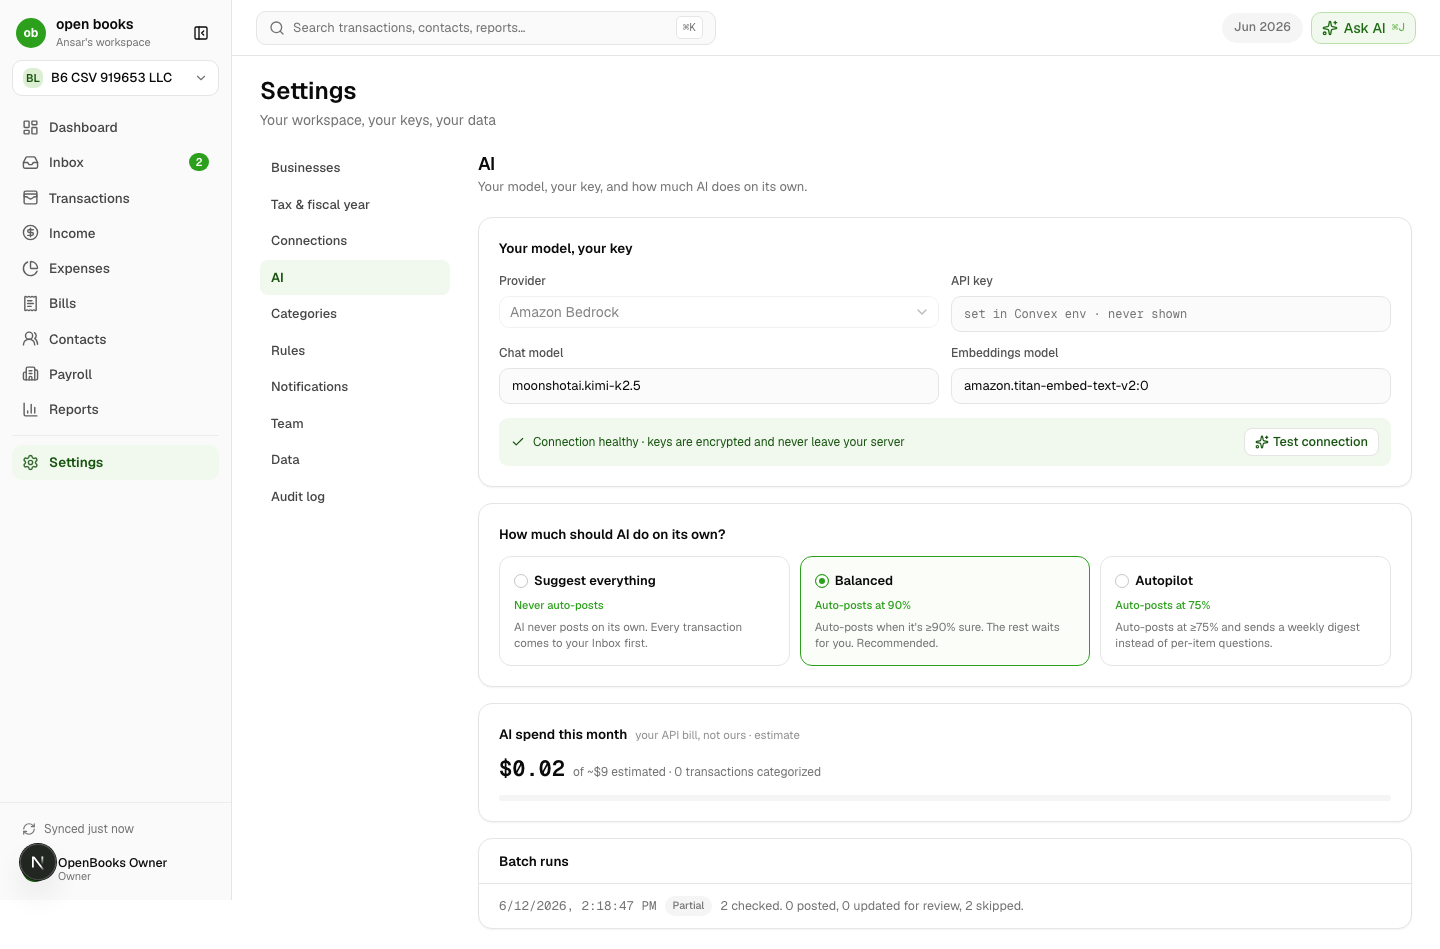
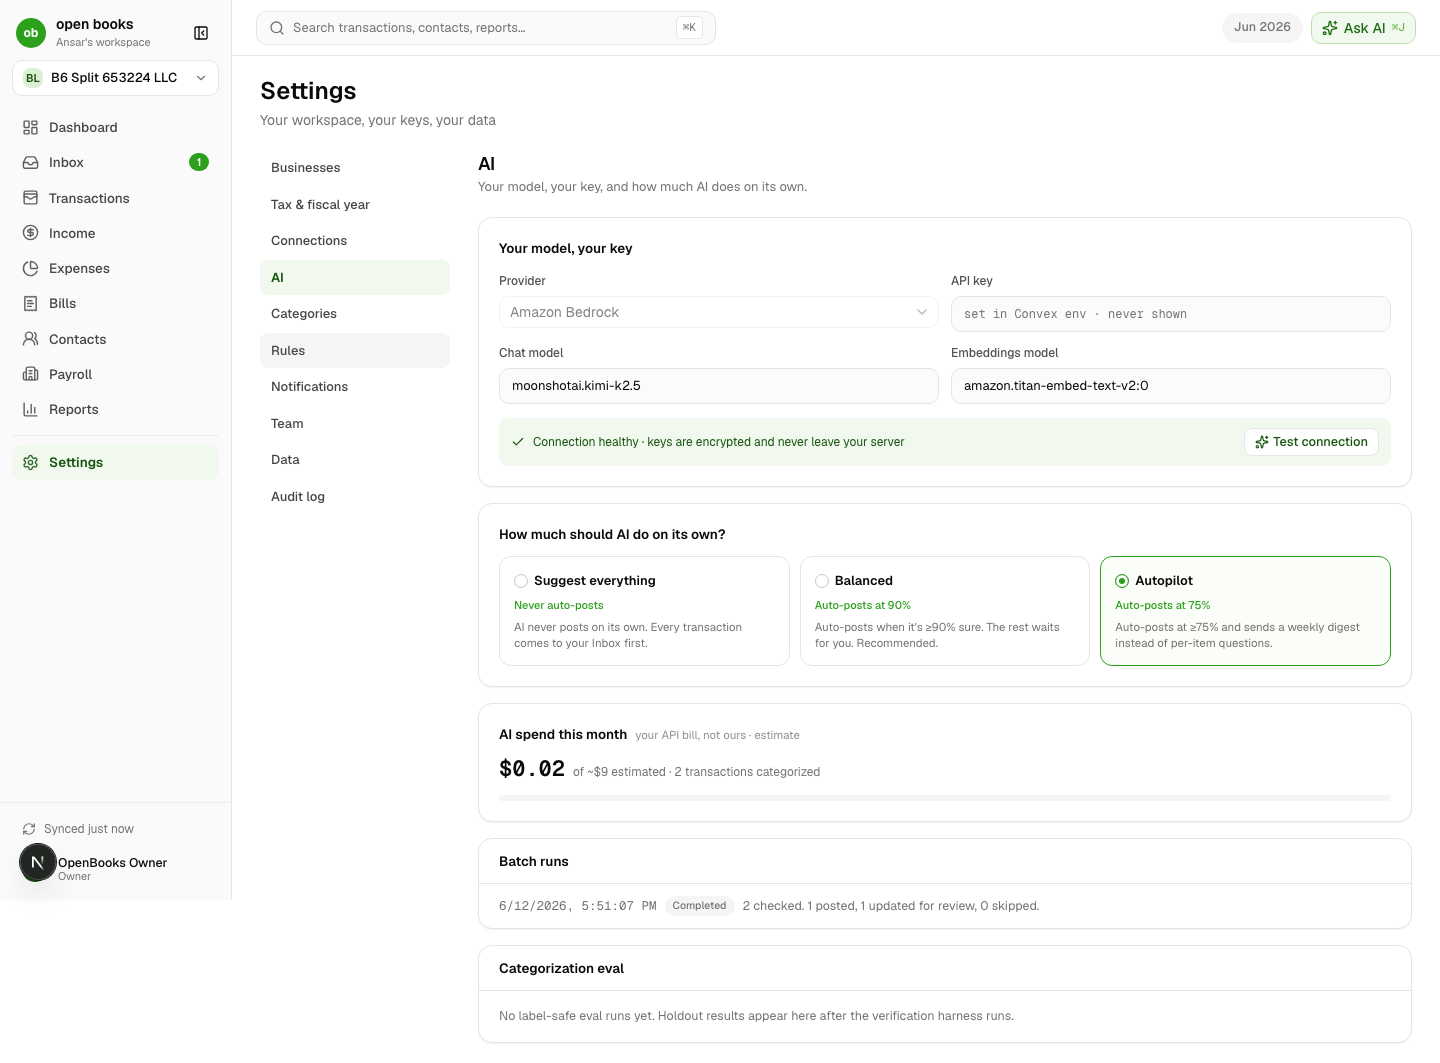
feat(ai): prove import categorization split

diff --git a/tests/e2e/import-ai-b6.spec.ts b/tests/e2e/import-ai-b6.spec.ts
@@ -57,8 +57,20 @@ async function selectEntity(page: Page, name: string) {
   await expect(menu).toBeVisible();
   const option = menu.locator('[role="menuitem"]').filter({ hasText: name }).first();
   await expect(option).toBeVisible({ timeout: 15000 });
+  if ((await option.getAttribute("aria-disabled")) === "true") {
+    await page.keyboard.press("Escape");
+    return;
+  }
   await option.click();
   await expect(switcher).toContainText(name, { timeout: 15000 });
+}
+
+async function setAiAutonomy(page: Page, mode: "balanced" | "autopilot") {
+  await gotoApp(page, "/settings/ai");
+  await expect(visibleByTestId(page, "ai-section")).toBeVisible({ timeout: 30000 });
+  const button = visibleByTestId(page, `ai-autonomy-${mode}`);
+  await button.click();
+  await expect(button).toHaveAttribute("data-active", "true", { timeout: 15000 });
 }
 
 async function archiveBusiness(page: Page, businessName: string) {
@@ -70,36 +82,73 @@ async function archiveBusiness(page: Page, businessName: string) {
   await expect(card).toContainText("Archived", { timeout: 15000 });
 }
 
-test("B6 — CSV import triggers AI batch history without mutating shared demo books", async ({ page }) => {
-  test.setTimeout(240_000);
+test("B6 — CSV import produces live Bedrock high/low split without mutating shared demo books", async ({ page }) => {
+  test.setTimeout(300_000);
   await page.setViewportSize({ width: 1440, height: 900 });
 
   const stamp = Date.now().toString().slice(-6);
-  const businessName = `B6 CSV ${stamp} LLC`;
-  const firstMerchant = `B6 Review Software ${stamp}`;
-  const secondMerchant = `B6 Review Supplies ${stamp}`;
+  const businessName = `B6 Split ${stamp} LLC`;
+  const highMerchant = `B6 Adobe Creative Cloud ${stamp}`;
+  const lowMerchant = `B6 Unknown Ambiguous Adjustment Needs Human ${stamp}`;
+  let touchedAutonomy = false;
 
-  await createBusiness(page, businessName);
-  await gotoApp(page, "/transactions");
-  await selectEntity(page, businessName);
-  await expect(visibleByTestId(page, "transactions-screen")).toBeVisible({ timeout: 30000 });
+  try {
+    await createBusiness(page, businessName);
+    await setAiAutonomy(page, "autopilot");
+    touchedAutonomy = true;
 
-  await visibleByTestId(page, "csv-text").fill(
-    `date,description,amount\n2026-06-30,${firstMerchant},-25.00\n2026-06-30,${secondMerchant},-18.00`,
-  );
-  await visibleByTestId(page, "csv-import").click();
-  await expect(visibleByTestId(page, "transaction-message")).toContainText(/AI batch/i, { timeout: 60000 });
-  await expect(page.getByTestId("transaction-row").filter({ hasText: secondMerchant }).first()).toBeVisible({
-    timeout: 15000,
-  });
+    await gotoApp(page, "/transactions");
+    await selectEntity(page, businessName);
+    await expect(visibleByTestId(page, "transactions-screen")).toBeVisible({ timeout: 30000 });
 
-  await page.getByTestId("app-sidebar").getByRole("link", { name: "Settings", exact: true }).click();
-  await page.getByTestId("settings-nav-ai").click();
-  await expect(visibleByTestId(page, "ai-section")).toBeVisible({ timeout: 30000 });
-  const batchHistory = visibleByTestId(page, "ai-batch-history");
-  await expect(batchHistory).toContainText(/checked/i, { timeout: 30000 });
-  await expect(batchHistory).toContainText(/degraded|completed|partial/i);
-  await page.screenshot({ path: `${EVIDENCE}/2026-06-12-B6-csv-ai-batch-history.png`, fullPage: true });
+    await visibleByTestId(page, "csv-text").fill(
+      [
+        "date,description,amount",
+        `2026-06-30,${highMerchant} monthly software subscription,-82.00`,
+        `2026-06-30,${lowMerchant},-19.37`,
+      ].join("\n"),
+    );
+    await visibleByTestId(page, "csv-import").click();
+    const message = visibleByTestId(page, "transaction-message");
+    await expect(message).toContainText(/AI batch/i, { timeout: 180000 });
+    await expect(message).toContainText(/2 checked, 1 posted, 1 updated for review/i);
 
-  await archiveBusiness(page, businessName);
+    await page.getByPlaceholder("Search merchant or memo").fill(highMerchant);
+    const postedRow = page.getByTestId("transaction-row").filter({ hasText: highMerchant }).first();
+    await expect(postedRow).toBeVisible({ timeout: 30000 });
+    await expect(postedRow).toContainText(/bank - ai/i);
+    await expect(postedRow).toContainText(/auto/i);
+    await expect(postedRow).toContainText(/Software & SaaS/i);
+    await postedRow.locator("td").nth(2).click();
+    const drawer = visibleByTestId(page, "transaction-drawer");
+    await expect(drawer).toContainText("Balanced lines", { timeout: 30000 });
+    await expect(drawer).toContainText("Software & SaaS");
+    await page.screenshot({ path: `${EVIDENCE}/2026-06-12-B6-import-split-posted.png`, fullPage: true });
+
+    await gotoApp(page, "/inbox");
+    await selectEntity(page, businessName);
+    await expect(visibleByTestId(page, "inbox-list")).toBeVisible({ timeout: 30000 });
+    const reviewItem = page.getByTestId("inbox-item").filter({ hasText: lowMerchant }).first();
+    await expect(reviewItem).toBeVisible({ timeout: 30000 });
+    await reviewItem.click();
+    await expect(visibleByTestId(page, "inbox-detail-title")).toHaveText(lowMerchant, { timeout: 15000 });
+    await expect(page.getByText(/Pipeline stage 6 LLM proposal|ambiguous|needs human|missing/i).first()).toBeVisible({
+      timeout: 15000,
+    });
+    await page.screenshot({ path: `${EVIDENCE}/2026-06-12-B6-import-split-inbox.png`, fullPage: true });
+
+    await gotoApp(page, "/settings/ai");
+    await expect(visibleByTestId(page, "ai-section")).toBeVisible({ timeout: 30000 });
+    const batchHistory = visibleByTestId(page, "ai-batch-history");
+    await expect(batchHistory).toContainText(/2 checked. 1 posted, 1 updated for review, 0 skipped/i, {
+      timeout: 30000,
+    });
+    await expect(batchHistory).toContainText(/completed/i);
+    await page.screenshot({ path: `${EVIDENCE}/2026-06-12-B6-csv-ai-batch-history.png`, fullPage: true });
+  } finally {
+    if (touchedAutonomy) {
+      await setAiAutonomy(page, "balanced").catch(() => undefined);
+    }
+    await archiveBusiness(page, businessName).catch(() => undefined);
+  }
 });

diff --git a/convex/bedrockCategorizer.ts b/convex/bedrockCategorizer.ts
@@ -461,6 +461,9 @@ export function buildCategorizationPrompt(args: {
   return [
     "You are the categorization stage for OpenBooks, a double-entry bookkeeping app.",
     "Choose exactly one category from the candidate account list. Do not invent categories.",
+    "Use needsHuman=false only when the merchant and raw description clearly point to one category.",
+    "If the merchant or raw description is generic, ambiguous, an adjustment, or says unknown/review/needs human, set needsHuman=true, use confidence <=0.65, and explain what is missing.",
+    "For clear recurring software, cloud, rent, utilities, payroll, meals, travel, bank fee, tax, or professional-service vendors, set needsHuman=false and use confidence that reflects the evidence.",
     "Return only JSON. No markdown. No explanation outside JSON.",
     "",
     `Entity: ${args.entityName}`,

diff --git a/convex/ai.test.ts b/convex/ai.test.ts
@@ -450,6 +450,8 @@ describe("M10 AI backend", () => {
 
     expect(prompt).toContain("Figma monthly subscription");
     expect(prompt).toContain("5200 | Software & SaaS | expense/software");
+    expect(prompt).toContain("generic, ambiguous, an adjustment");
+    expect(prompt).toContain("needsHuman=true");
     expect(prompt).toContain("Return only JSON");
     expect(prompt).not.toContain("AWS_SECRET_ACCESS_KEY");
   });

diff --git a/docs/finishing/completion-report.md b/docs/finishing/completion-report.md
@@ -62,10 +62,10 @@ Updated as evidence lands. Starts as inherited reality from the audit.
 | 2 | Shell: collapsible sidebar, footer profile/settings/logout, ⌘K, entity switcher, Ask AI ⌘J | WORKING | `tests/e2e/app-shell.spec.ts` 9/9 + 8 screenshots; B5 dock verified in `tests/e2e/ai-chat.spec.ts`; F2 profile verified in `tests/e2e/profile-team.spec.ts` + screenshot; G5 entity switching verified in `tests/e2e/entity-scope-g5.spec.ts` + screenshots | Sidebar 232⇄56 rail, footer menu (logout→sign-in), Income/Expenses nav, ⌘K, ⌘J, switcher all real-click verified. Profile page now updates sidebar identity live. Entity switching now drives dashboard/register/reports/module reads for Live Sandbox and fresh businesses. Remaining follow-up: global ⌘K server search index. AI panel is docked on desktop and a bottom sheet on mobile. |
 | 3 | Plaid sandbox real Link → sync → pipeline → ledger/inbox | PARTIAL | `convex/plaid.test.ts` 15/15 + `convex/plaidWebhook.test.ts` 2/2 + `tests/e2e/plaid-link.spec.ts` 3/3 + 3 screenshots | G1 mounts the Plaid Link client and persists exchanged access tokens server-side without leaking them. G2 adds item-level cursor state, `system:sync`, 4h cron, verified Plaid webhook signature handling, real `/transactions/sync`, server-side removal reversal, and a Settings `Sync now` control. Still not WORKING: no completed hosted Plaid Link session + real Plaid sandbox item sync has been proven end-to-end in the browser. |
 | 4 | Stripe test mode event-driven sync + payout reconcile | PARTIAL | `convex/stripe.test.ts` 6/6 + `convex/stripeWebhook.test.ts` 3/3 + `tests/e2e/stripe-g3.spec.ts` 1/1 + screenshot | G3 code is implemented: Stripe test-mode webhooks dedupe, trigger targeted invoice/charge/payout sync, post through `system:sync`, and persist `stripePayoutLines`; UI reads persisted child rows. Still not WORKING until a real Stripe CLI/Dashboard test webhook is delivered to `/stripe/webhook` on the cloud site and proves invoice/payout update end-to-end. |
-| 5 | Inbox: confirm / correct / rule / batch / keyboard | WORKING | `tests/e2e/inbox-h2.spec.ts` 1/1 + 3 screenshots; `convex/ai.test.ts`, `convex/plaid.test.ts`, `tests/e2e/import-ai-b6.spec.ts` 1/1 + screenshot; H3 eval JSON + `tests/e2e/ai-eval-h3.spec.ts` screenshot | Disposable-business H2 coverage now proves keyboard J/K, category correction, rule save, single confirm/post, and batch confirm without mutating shared demo books. Import-triggered AI batch/run-history is evidenced for CSV and Plaid system sync. B6 real-Bedrock high/low import split remains row #14, not a blocker for this general Inbox row. |
+| 5 | Inbox: confirm / correct / rule / batch / keyboard | WORKING | `tests/e2e/inbox-h2.spec.ts` 1/1 + 3 screenshots; `convex/ai.test.ts`, `convex/plaid.test.ts`, `tests/e2e/import-ai-b6.spec.ts` 1/1 + screenshots; H3 eval JSON + `tests/e2e/ai-eval-h3.spec.ts` screenshot | Disposable-business H2 coverage now proves keyboard J/K, category correction, rule save, single confirm/post, and batch confirm without mutating shared demo books. Import-triggered AI batch/run-history is evidenced for CSV and Plaid system sync, and B6 live Bedrock now proves a high-confidence AI post plus a low-confidence Inbox review card. |
 | 6 | Income / Expenses / Bills / Contacts / Payroll fully functional incl. missing mutations | WORKING | `income-expenses-bills.spec.ts` (C) + `reports-payroll.spec.ts` D4 + `tests/e2e/receipts-g4.spec.ts` 2/2 + `convex/receipts.test.ts` 14/14 | Income (payments/invoices/receivables); **invoice save-draft→finalize→receivables** (was missing); Expenses (categories/vendors/recurring + add-category); **bill mark-paid→AP drops + bank txn consumed** (was missing); payroll detail→approve→pay (Epic D). Contacts pre-existing. Receipt PDF/text + image upload now creates reviewable evidence, Bedrock text-PDF raster extraction, transaction receipt chip, and Create expense → balanced manual-expense posting from an unmatched receipt. Scanned/image-only PDF rendering is future hardening, not proven here. |
 | 7 | Reports home → viewer, sane periods, drill-down, cash⇄accrual, exports match | WORKING | `tests/e2e/reports-payroll.spec.ts` D1–D3 + screenshots; `tests/e2e/reports-export-h2.spec.ts` + screenshot; G5 active-entity report proof in `tests/e2e/entity-scope-g5.spec.ts` | Home card grid → viewer; default period never future (asserted); cash⇄accrual toggle + number→drill-down slide-over verified; Monthly Review one-pager + month stepper; reports now compute against the selected entity including Live Sandbox and a fresh empty business. P&L CSV export equality is automated against visible report totals; exhaustive per-report CSV parity is future hardening. |
-| 8 | Ask AI: Bedrock streaming, markdown, persistent threads, propose→confirm | WORKING | B1–B3 unit tests + live Bedrock smoke + `tests/e2e/ai-chat.spec.ts` 4/4 + 5 screenshots; `tests/e2e/ask-ai-parity-h2.spec.ts` 1/1 + screenshot; B6 scheduling proof in `tests/e2e/import-ai-b6.spec.ts` | Live Bedrock answer renders markdown table and survives reload; New conversation resets thread; durable proposal card confirms through `api.proposals.confirmProposal` on a temporary business, then archives it; desktop dock and mobile sheet verified. H2 five-question Ask AI parity now proves the flagship prompts use read-tool traces and match independently queried ledger/report values. B6 import-trigger scheduling/run-history is implemented/evidenced; real-Bedrock high-confidence/low-confidence import split remains a named open proof. |
+| 8 | Ask AI: Bedrock streaming, markdown, persistent threads, propose→confirm | WORKING | B1–B3 unit tests + live Bedrock smoke + `tests/e2e/ai-chat.spec.ts` 4/4 + 5 screenshots; `tests/e2e/ask-ai-parity-h2.spec.ts` 1/1 + screenshot; B6 live split proof in `tests/e2e/import-ai-b6.spec.ts` + 3 screenshots | Live Bedrock answer renders markdown table and survives reload; New conversation resets thread; durable proposal card confirms through `api.proposals.confirmProposal` on a temporary business, then archives it; desktop dock and mobile sheet verified. H2 five-question Ask AI parity now proves the flagship prompts use read-tool traces and match independently queried ledger/report values. B6 import-trigger scheduling/run-history and real-Bedrock high-confidence/low-confidence import split are implemented/evidenced. |
 | 9 | Settings: 10-section subnav, all real | WORKING | `tests/e2e/settings.spec.ts` 3/3 + `convex/settings.test.ts` 4/4 + 6 screenshots; F3 invite/staff role path in `tests/e2e/profile-team.spec.ts` + screenshots; G5 active-entity settings scope in `tests/e2e/entity-scope-g5.spec.ts`; H3 eval history in `tests/e2e/ai-eval-h3.spec.ts` | 10 sections real-click verified; Add business creates an entity, appears in the switcher, archive hides it while preserving audit history; AI autonomy persists; rule reorder persists; audit filter verified; Settings -> AI now shows the label-safe categorization eval history. Team invite copy-link acceptance works; Plunk email delivery remains optional/unconfigured. Entity-scoped settings reads now follow the selected business where applicable. |
 | 10 | Mobile genuinely usable at 390px | WORKING | `tests/e2e/acceptance-h2-pack.spec.ts` 2/2 + four mobile screenshots; `tests/e2e/core-screens.spec.ts` H1 mobile dashboard screenshot | H2 now proves Dashboard, Inbox, Transactions, and Ask AI at 390px with no horizontal scroll. Broader module-by-module mobile hardening can continue later, but the required acceptance row is evidenced. |
 
@@ -707,10 +707,10 @@ Updated as evidence lands. Starts as inherited reality from the audit.
   - Batch gates: `pnpm verify` -> **green** (typecheck, lint, build,
     **146/146 unit**); `npx convex dev --once` -> **green** against cloud dev
     `ceaseless-mandrill-524`.
-- **Status:** import-triggered AI scheduling/run history is **WORKING and
-  evidenced** for CSV and Plaid sync paths. Full B6 acceptance remains
-  **PARTIAL** until a real-Bedrock import proves the high-confidence
-  `decidedBy: ai` post path and low-confidence Inbox-with-reasoning split.
+- **Status at this checkpoint:** import-triggered AI scheduling/run history was
+  **WORKING and evidenced** for CSV and Plaid sync paths. The live high/low
+  Bedrock split was still open here and is closed in the B6 completion entry
+  below.
 - **Next:** G4 create-expense completion pass, hosted Plaid Link item proof,
   real Stripe webhook delivery proof, then Epic H closeout.
 
@@ -1087,6 +1087,43 @@ Updated as evidence lands. Starts as inherited reality from the audit.
 - **Next:** continue the remaining H2/H5 rows: B6 real-Bedrock import high/low
   split, Plaid hosted-item proof, Stripe webhook proof, and the final
   evidence-index cross-check. Do not deploy unless Ansar reauthorizes it.
+
+### 2026-06-12 — Batch B6 completion: live Bedrock import high/low split (lead)
+
+- **Changed:** tightened the Bedrock categorization prompt so the model has an
+  explicit uncertainty brake: obvious vendors can return `needsHuman=false`,
+  while generic, ambiguous, adjustment, unknown, review, or needs-human
+  descriptions must return `needsHuman=true`, confidence <= 0.65, and a short
+  missing-context explanation.
+- **Proof flow:** upgraded `tests/e2e/import-ai-b6.spec.ts` from "batch history
+  exists" to a real split proof. The spec creates a disposable business, switches
+  AI autonomy to Autopilot, imports two CSV rows, and requires the same live
+  Bedrock batch to produce `2 checked, 1 posted, 1 updated for review`.
+- **User-visible behavior:** the clear Adobe software row posts through the
+  ledger as `bank - ai`, lands on 5200 Software & SaaS with 98% confidence, and
+  shows balanced journal lines. The ambiguous adjustment row stays in Inbox with
+  an LLM reasoning note and a human confirmation path. The test restores
+  autonomy to Balanced and archives the disposable business in `finally`.
+- **Evidence / verification:**
+  - `pnpm test:unit convex/ai.test.ts` -> **22/22 green**. The prompt unit now
+    asserts the ambiguity/`needsHuman=true` instruction stays present.
+  - `pnpm test:e2e tests/e2e/import-ai-b6.spec.ts` -> **1/1 green real-click**.
+  - Screenshots:
+    `docs/finishing/evidence/2026-06-12-B6-import-split-posted.png`,
+    `docs/finishing/evidence/2026-06-12-B6-import-split-inbox.png`,
+    `docs/finishing/evidence/2026-06-12-B6-csv-ai-batch-history.png`.
+  - Batch gates: `git diff --check` -> **green**; e2e shortcut scan found no
+    `dispatchEvent` / `force: true`; `pnpm verify` -> **green** (typecheck,
+    lint, build, **151/151 unit**); `npx convex dev --once` -> **green** against
+    cloud dev `ceaseless-mandrill-524`.
+- **Status:** B6 is now **WORKING/evidenced** for CSV import-triggered live
+  Bedrock split: high-confidence AI posts through the shared ledger path with
+  `decidedBy: ai`, and low-confidence/needs-human rows remain in Inbox with
+  reasoning. Plaid-triggered scheduling was already unit/e2e evidenced; external
+  hosted Plaid item proof remains row #3, not B6.
+- **Next:** do the final H5 evidence-index cross-check with Plaid and Stripe
+  left blocked unless external sessions are provided. Do not deploy unless Ansar
+  reauthorizes it.
 
 <!-- Append one dated entry per batch below. Keep WORKING claims tied to a
      green test + screenshot. -->

diff --git a/docs/finishing/whats-left.md b/docs/finishing/whats-left.md
@@ -32,9 +32,8 @@ closeout.
   sandbox item and that item sync is proven end to end; row #4 is still
   **PARTIAL** until a real Stripe CLI/Dashboard test webhook is delivered to the
   deployed route.
-- **Still open:** B6 real-Bedrock high/low import split proof · Plaid
-  hosted-item proof · Stripe webhook delivery proof · H2 remaining AI import
-  split and final evidence-index cross-check ·
+- **Still open:** Plaid hosted-item proof · Stripe webhook delivery proof · H2
+  final evidence-index cross-check ·
   prod redeploy only if Ansar reauthorizes it.
 
 ---
@@ -110,10 +109,10 @@ e2e green.
 | 2 | Shell: collapse rail, footer profile/settings/logout, ⌘K, switcher, Ask AI ⌘J | ✅ WORKING incl. active-entity data switching |
 | 3 | Plaid sandbox real Link → sync → ledger/inbox | ◑ PARTIAL → G1a UI/exchange + G2 server sync path done; needs hosted Plaid item proof |
 | 4 | Stripe test mode event-driven sync + payout reconcile | ◑ PARTIAL → G3 code verified; needs real Stripe CLI/Dashboard webhook delivery proof |
-| 5 | Inbox: confirm/correct/rule/batch/keyboard | ✅ WORKING → disposable-business H2 spec covers keyboard J/K, category correction, rule save, confirm/post, and batch confirm; AI import split remains row #14 |
+| 5 | Inbox: confirm/correct/rule/batch/keyboard | ✅ WORKING → disposable-business H2 spec covers keyboard J/K, category correction, rule save, confirm/post, batch confirm, and B6 live AI import split |
 | 6 | Income/Expenses/Bills/Contacts/Payroll + missing mutations | ✅ WORKING; receipt upload/chip + create-expense posting + text-PDF raster-to-Bedrock match evidenced |
 | 7 | Reports home→viewer, sane periods, drill-down, cash⇄accrual | ✅ WORKING incl. active-entity report reads |
-| 8 | Ask AI: streaming, markdown, threads, propose→confirm | ✅ WORKING for B4-B5; B6 import-trigger scheduling/run history evidenced, real-Bedrock split remains |
+| 8 | Ask AI: streaming, markdown, threads, propose→confirm | ✅ WORKING for B4-B6, including live Bedrock import high/low split |
 | 9 | Settings: 10-section subnav | ✅ WORKING |
 | 10 | Mobile usable at 390px | ✅ WORKING → H2 real-click pass covers Dashboard, Inbox, Transactions, and Ask AI at 390px with screenshots |
 
@@ -129,7 +128,7 @@ Row #9 is **WORKING** with `tests/e2e/settings.spec.ts` 3/3,
 `convex/settings.test.ts` 4/4, screenshots, and gates. Remaining
 settings-adjacent active-entity read switching is now covered by G5.
 
-### B. Ask AI panel UI — B4-B5 DONE; B6 scheduling/run-history DONE, live split remains
+### B. Ask AI panel UI — B4-B6 DONE
 B4-B5 are **WORKING** with `tests/e2e/ai-chat.spec.ts` 4/4 and screenshots:
 durable threads, markdown, proposal confirmation cards, docked desktop panel,
 full-page `/ask-ai`, and mobile sheet. B6 now schedules/import-invokes
@@ -137,14 +136,16 @@ categorization for CSV and Plaid paths, records Settings-visible run history,
 and uses the `system:sync` actor for background Plaid jobs. Evidence:
 `convex/ai.test.ts`, `convex/plaid.test.ts`, and
 `tests/e2e/import-ai-b6.spec.ts` with
-`docs/finishing/evidence/2026-06-12-B6-csv-ai-batch-history.png`. H2
-five-question Ask AI parity is now evidenced by
+`docs/finishing/evidence/2026-06-12-B6-csv-ai-batch-history.png`,
+`docs/finishing/evidence/2026-06-12-B6-import-split-posted.png`, and
+`docs/finishing/evidence/2026-06-12-B6-import-split-inbox.png`: the live
+Bedrock proof imports two CSV rows on a disposable business, posts the clear
+Adobe software row as `decidedBy: ai`, and keeps the ambiguous adjustment row in
+Inbox with reasoning. H2 five-question Ask AI parity is now evidenced by
 `tests/e2e/ask-ai-parity-h2.spec.ts` and
 `docs/finishing/evidence/2026-06-12-H2-ask-ai-five-question-parity.png`: the
 panel answers the five flagship prompts through read-tool traces and reconciles
-to independently queried report values. Remaining B6 gap: a real-Bedrock import
-split with high-confidence rows posting as
-`decidedBy: ai` and low-confidence rows staying in Inbox with AI reasoning.
+to independently queried report values.
 
 ### C. Epic F — Identity (onboarding, profile, invites, dev-mode) — MOSTLY DONE
 F1-F4 are evidenced: new owners can self-register into a full first-run
@@ -184,8 +185,7 @@ future hardening, not proven by this batch. G5 is **WORKING/evidenced** with
 Live Sandbox data now appears in the main dashboard/register/reports, fresh
 businesses render empty states, and core read models have bounded `take()` guards
 plus dashboard read-count stats. Next: collect real Plaid/Stripe external proof
-if inputs are available, finish the B6 real-Bedrock import split proof, then run
-the final H2/H5 evidence cross-check.
+if inputs are available, then run the final H2/H5 evidence cross-check.
 
 ### E. Epic H — Verification, honest eval, closeout  _(last)_
 H1 first integrity pass is **done/committed in progress**: `tests/e2e` now has
@@ -214,10 +214,10 @@ are bounded to 120, and no truncation flags are set. H2 now has a **partial
 evidence index** at
 `docs/finishing/evidence/2026-06-12-H2-acceptance-evidence-index.md`, and rows
 #5 Inbox, #8 Contacts, #10 Reports export equality, #11 Data export, #16 Mobile,
-#17 Audit log, row #14 five-question Ask AI report-answer path, and row #15
-Receipts text-PDF raster-to-Bedrock path are now evidenced. H2 still needs the
-B6 AI import split, Plaid hosted item proof, Stripe
-webhook delivery, and a final H5 evidence-index cross-check before the whole
+#17 Audit log, row #14 five-question Ask AI report-answer path + B6 live import
+split, and row #15 Receipts text-PDF raster-to-Bedrock path are now evidenced.
+H2 still needs Plaid hosted item proof, Stripe webhook delivery, and a final H5
+evidence-index cross-check before the whole
 acceptance pack can close. H5 docs refresh is **partially done/evidenced**: `README.md`,
 `docs/finishing/how-openbooks-works.md`, and `AGENTS.md` now match shipped
 reality, but final H5 closeout still needs the completed H2 evidence pack. Do

diff --git a/docs/finishing/evidence/2026-06-12-H2-acceptance-evidence-index.md b/docs/finishing/evidence/2026-06-12-H2-acceptance-evidence-index.md
@@ -21,17 +21,16 @@ coverage stay PARTIAL/BLOCKED.
 | 11 | Data export | WORKING | `tests/e2e/acceptance-h2-pack.spec.ts`, `docs/finishing/evidence/2026-06-12-H2-data-export.png` | JSON dump download is proven by a real browser `download` event. CSV bundle file fan-out is not separately asserted, but report export equality is covered by row #10. |
 | 12 | Plaid sandbox | PARTIAL/BLOCKED | `docs/finishing/evidence/2026-06-12-G1-plaid-link-surface.png`, `docs/finishing/evidence/2026-06-12-G2-plaid-sync-controls.png` | Needs completed hosted Plaid sandbox Link session and real item sync proof. |
 | 13 | Stripe test | PARTIAL/BLOCKED | `docs/finishing/evidence/2026-06-12-G3-stripe-payout-lines.png` | Needs real Stripe CLI/Dashboard test webhook delivered to the cloud route. |
-| 14 | Ask AI | WORKING/PARTIAL | `tests/e2e/ask-ai-parity-h2.spec.ts`, `docs/finishing/evidence/2026-06-12-H2-ask-ai-five-question-parity.png`, `docs/finishing/evidence/2026-06-12-B4-markdown-thread.png`, `docs/finishing/evidence/2026-06-12-B4-confirmation-card.png`, `docs/finishing/evidence/2026-06-12-B5-docked-desktop.png`, `docs/finishing/evidence/2026-06-12-H2-mobile-ask-ai.png`, `docs/finishing/evidence/2026-06-12-H3-ai-eval-settings.png` | Five-question report-answer parity is now green against live Bedrock, read-tool traces, and independently queried ledger/report values. Real-Bedrock import high/low split remains open proof. |
+| 14 | Ask AI | WORKING | `tests/e2e/ask-ai-parity-h2.spec.ts`, `tests/e2e/import-ai-b6.spec.ts`, `docs/finishing/evidence/2026-06-12-H2-ask-ai-five-question-parity.png`, `docs/finishing/evidence/2026-06-12-B6-import-split-posted.png`, `docs/finishing/evidence/2026-06-12-B6-import-split-inbox.png`, `docs/finishing/evidence/2026-06-12-B6-csv-ai-batch-history.png`, `docs/finishing/evidence/2026-06-12-B4-markdown-thread.png`, `docs/finishing/evidence/2026-06-12-B4-confirmation-card.png`, `docs/finishing/evidence/2026-06-12-B5-docked-desktop.png`, `docs/finishing/evidence/2026-06-12-H2-mobile-ask-ai.png`, `docs/finishing/evidence/2026-06-12-H3-ai-eval-settings.png` | Five-question report-answer parity is green against live Bedrock/read-tool traces/report values. B6 live import split is green: clear Adobe software row posts as `decidedBy: ai`; ambiguous adjustment row stays in Inbox with reasoning. H3 accuracy remains an honest quality finding, not an unverified acceptance claim. |
 | 15 | Receipts | WORKING | `tests/e2e/receipts-g4.spec.ts`, `docs/finishing/evidence/2026-06-12-G4-receipts-pdf-image-chip.png`, `docs/finishing/evidence/2026-06-12-G4-create-expense-receipt.png`, `docs/finishing/evidence/2026-06-12-G4-pdf-raster-bedrock-row.png`, `docs/finishing/evidence/2026-06-12-G4-pdf-raster-bedrock-chip.png` | Text-bearing PDF receipts now rasterize first-page extracted text into a PNG Bedrock vision payload, auto-match to an imported outflow, and show the matched receipt chip. Scanned/image-only PDF OCR/rendering is future hardening. |
 | 16 | Mobile | WORKING | `tests/e2e/acceptance-h2-pack.spec.ts`, `docs/finishing/evidence/2026-06-12-H2-mobile-dashboard.png`, `docs/finishing/evidence/2026-06-12-H2-mobile-inbox.png`, `docs/finishing/evidence/2026-06-12-H2-mobile-transactions.png`, `docs/finishing/evidence/2026-06-12-H2-mobile-ask-ai.png` | The required H2 390px pass covers Dashboard, Inbox, Transactions, and Ask AI with no horizontal scroll. Broader module-by-module mobile review is a later hardening item. |
 | 17 | Audit log | WORKING | `tests/e2e/audit-h2.spec.ts`, `docs/finishing/evidence/2026-06-12-E5-audit-filter.png`, `docs/finishing/evidence/2026-06-12-H2-audit-posting-trace.png` | Disposable-business posting proof filters the audit log by the unique merchant and shows the user-visible posting summary. |
 | 18 | Honesty check | WORKING/PARTIAL | `docs/finishing/completion-report.md`, `docs/finishing/whats-left.md`, this index. | Final H5 can close only after H2 screenshots and external Plaid/Stripe rows are resolved or explicitly left blocked. |
 
 Summary: A-C are mostly working, but H2 is still PARTIAL because rows
-12, 13, 14, and 18 need either stronger finishing evidence, final
-cross-checking, or external Plaid/Stripe inputs. Row 14 now has five-question
-Ask AI report-answer parity, but remains partial for the separate B6 import
-high/low split. Rows 8, 11, and 16 were upgraded
+12, 13, and 18 need either final cross-checking or external Plaid/Stripe inputs.
+Row 14 now has both five-question Ask AI report-answer parity and the B6
+real-Bedrock import high/low split. Rows 8, 11, and 16 were upgraded
 only after `tests/e2e/acceptance-h2-pack.spec.ts` passed with real clicks and
 fresh screenshots; row 17 was upgraded after `tests/e2e/audit-h2.spec.ts`
 proved a real posting action in the audit log; row 1 was upgraded after
@@ -41,6 +40,8 @@ proved a downloaded P&L CSV matches visible report totals; row 5 was upgraded
 after `tests/e2e/inbox-h2.spec.ts` proved the general review workflow on a
 disposable business; row 14's report-answer proof was upgraded after
 `tests/e2e/ask-ai-parity-h2.spec.ts` proved the five flagship prompts use
-read-tool traces and match independently queried report values; row 15 was
-upgraded after `tests/e2e/receipts-g4.spec.ts` proved text-PDF
+read-tool traces and match independently queried report values; row 14's B6
+import split was upgraded after `tests/e2e/import-ai-b6.spec.ts` proved one
+live-Bedrock CSV row posts as AI and one stays in Inbox with reasoning; row 15
+was upgraded after `tests/e2e/receipts-g4.spec.ts` proved text-PDF
 raster-to-Bedrock matching and receipt-chip display on a disposable business.